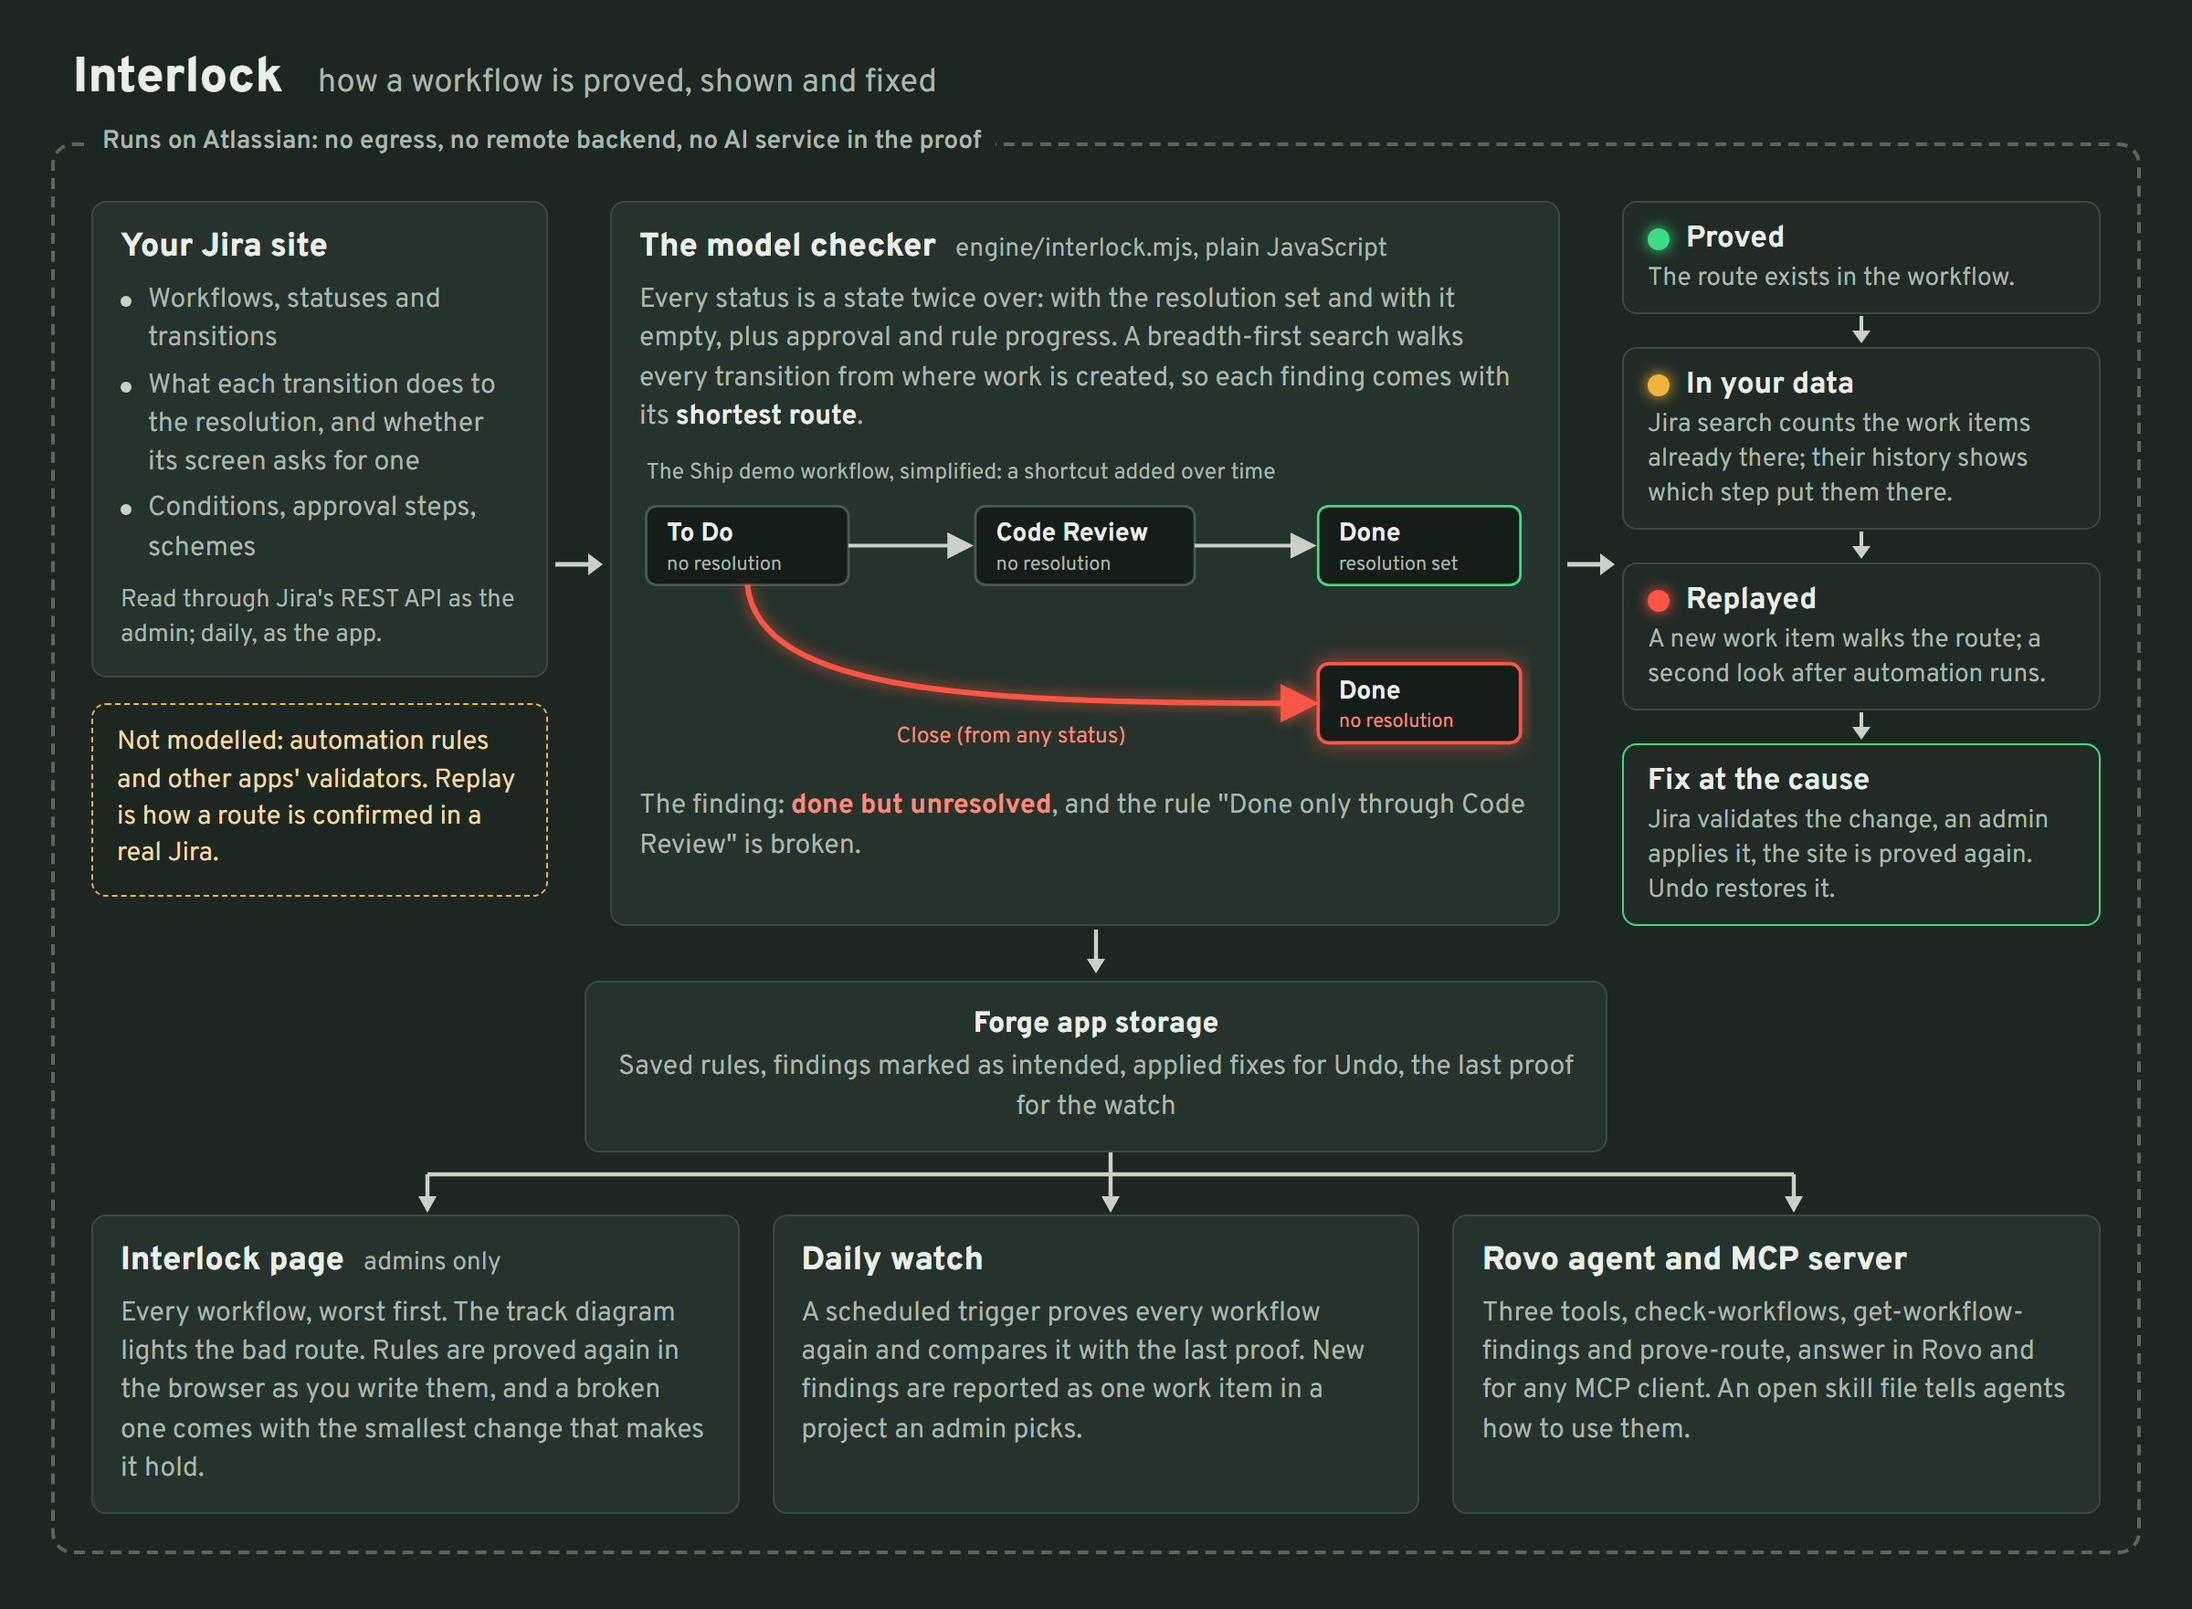
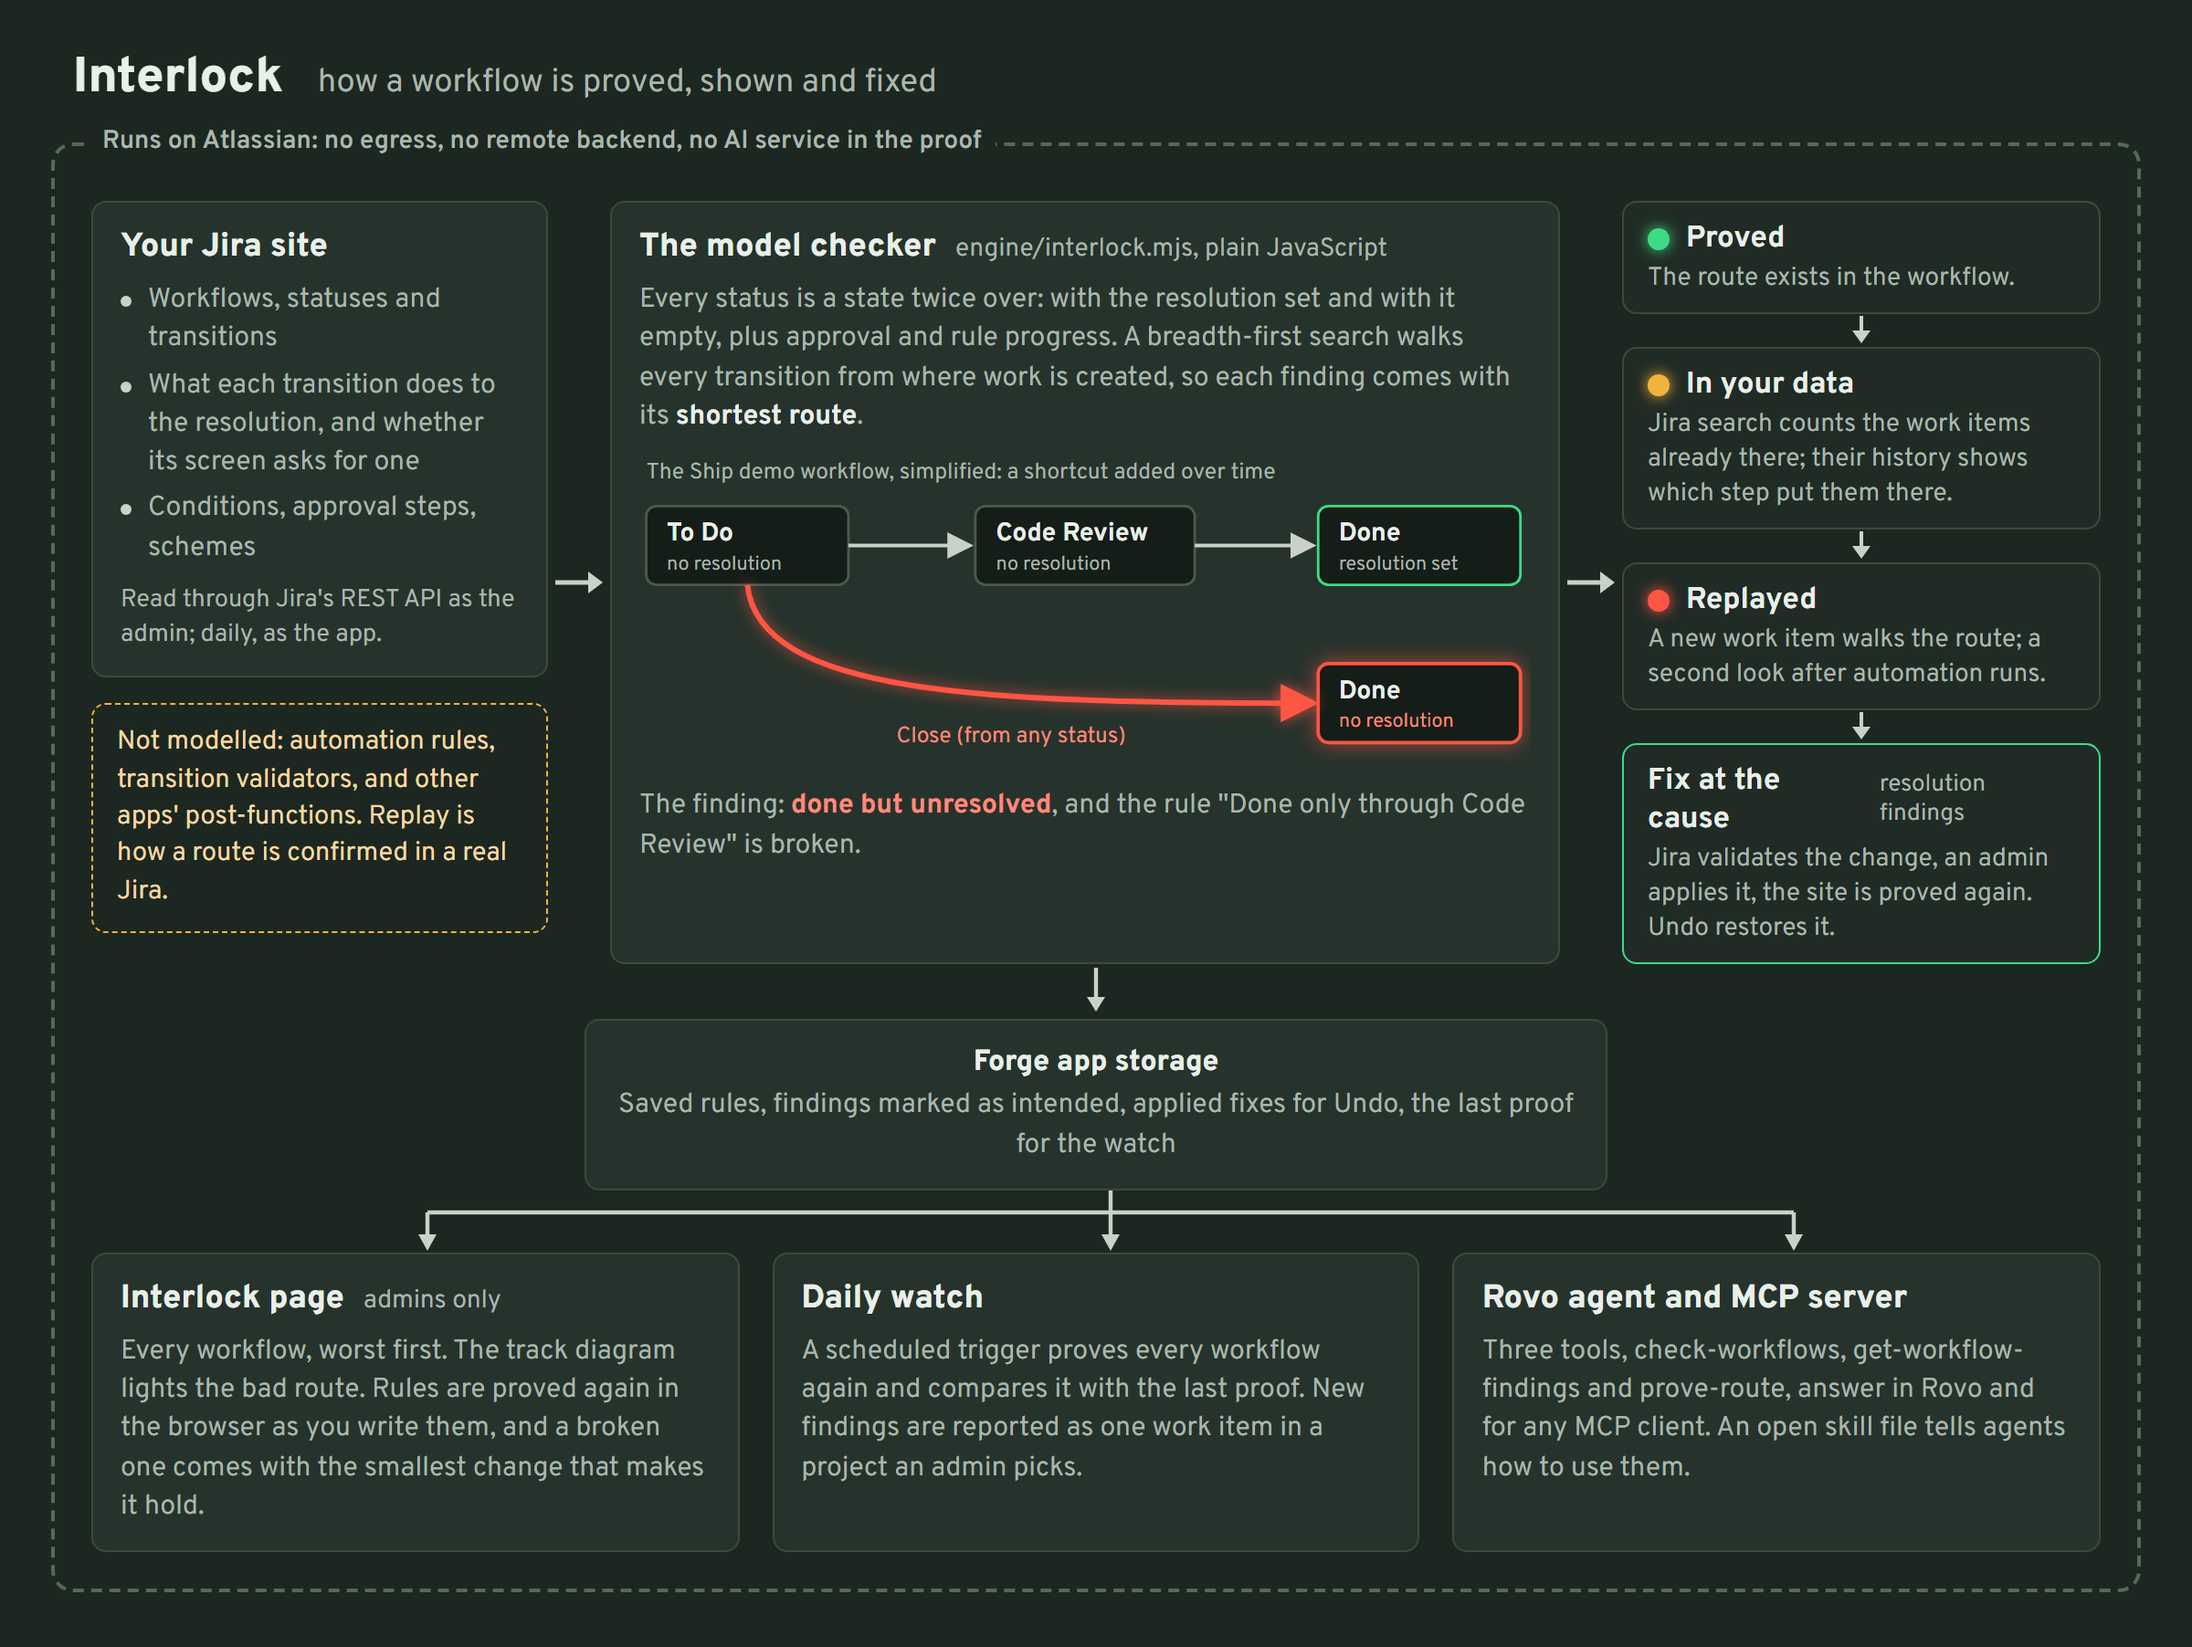
README: Nov 2 numbers first, public Jira as bullets, what the proof leaves out, Undo safeguard; diagram labels

diff --git a/docs/architecture/architecture.html b/docs/architecture/architecture.html
@@ -52,7 +52,7 @@ body { width: 1200px; font-family: Overpass, sans-serif; color: var(--text); pad
       </ul>
       <p style="font-size:13.5px">Read through Jira's REST API as the admin; daily, as the app.</p>
     </div>
-    <div class="not">Not modelled: automation rules and other apps' validators. Replay is how a route is confirmed in a real Jira.</div>
+    <div class="not">Not modelled: automation rules, transition validators, and other apps' post-functions. Replay is how a route is confirmed in a real Jira.</div>
   </div>
   <div class="arrow"><svg width="30" height="20"><path d="M2 10 H24" stroke="#c9d1c9" stroke-width="2.4"/><path d="M20 4 L28 10 L20 16 z" fill="#c9d1c9"/></svg></div>
   <div class="box">
@@ -87,7 +87,7 @@ body { width: 1200px; font-family: Overpass, sans-serif; color: var(--text); pad
     <div class="down"><svg width="16" height="16"><path d="M8 0 V10" stroke="#c9d1c9" stroke-width="2"/><path d="M3 8 L8 15 L13 8 z" fill="#c9d1c9"/></svg></div>
     <div class="rung"><h4><span class="lamp r"></span>Replayed</h4><p>A new work item walks the route; a second look after automation runs.</p></div>
     <div class="down"><svg width="16" height="16"><path d="M8 0 V10" stroke="#c9d1c9" stroke-width="2"/><path d="M3 8 L8 15 L13 8 z" fill="#c9d1c9"/></svg></div>
-    <div class="rung fix"><h4>Fix at the cause</h4><p>Jira validates the change, an admin applies it, the site is proved again. Undo restores it.</p></div>
+    <div class="rung fix"><h4>Fix at the cause <span style="font-weight:400;color:var(--muted);font-size:13px;margin-left:6px">resolution findings</span></h4><p>Jira validates the change, an admin applies it, the site is proved again. Undo restores it.</p></div>
   </div>
 </div>
 

diff --git a/README.md b/README.md
@@ -2,13 +2,13 @@
 
 # Interlock
 
-A Jira workflow is a small program. Teams rely on it for promises such as *"nothing is done without code review"*, *"done work is resolved"* and *"nothing gets stuck"*, and Jira itself never checks those promises. A global transition added for a hotfix, a status copied from another project, or a transition screen without the Resolution field quietly breaks them. Dashboards then count finished work as unresolved, or reopened work as resolved, and release reports are wrong.
+A Jira workflow is a small program. Teams rely on it for promises such as *"nothing is done without code review"*, *"done work is resolved"* and *"nothing gets stuck"*, and Jira itself never checks those promises. A global transition added for a hotfix, a status copied from another project, or a transition screen without the Resolution field quietly breaks them. Dashboards then count finished work as unresolved, or reopened work as resolved, and every filter, gadget and report that runs on the resolution is wrong.
 
 Railway signal boxes solved this a century ago with interlocking: the frame physically prevents a lever combination that would set conflicting routes. Interlock brings the same idea to Jira. Instead of testing a few example work items, it works through every situation a work item can ever be in, meaning each status combined with whether the resolution is set, and checks each promise against all of them. That kind of exhaustive check is called model checking.
 
 It is for Jira administrators and the teams who rely on Jira's numbers: service desks reporting SLAs and change volumes, software teams with review rules, anyone whose release report counts resolved work.
 
-![Interlock: selecting a workflow lights its bad route, and a train runs along it](docs/media/interlock-routes.gif)
+![Interlock lights a bad route in two service-management workflows: a cancelled request left unresolved, and a post-incident review published without approval](docs/media/interlock-routes.gif)
 
 ## What it finds
 
@@ -30,14 +30,21 @@ Each finding comes with the shortest route that breaks the property, from creati
 A proof says what *can* happen. Interlock then takes each finding as far as it can go:
 
 1. **Proved.** The model checker found the route.
-2. **In your data.** For resolution findings, Interlock counts the work items in the projects using that workflow that are already in the bad state, using Jira's own search. On an Atlassian demo site on Nov 1, 2026, before we added anything, 29 of its 97 workflows had routes that go wrong and 78 work items in its sample projects were already in a wrong state. (Today the same site, with our own Ship and TPL projects added, has 104 workflows, 30 with findings and 85 work items wrong.) The count is split by status, so each finding shows its own items, and **How did they get there?** reads the history of up to 50 of them and counts the step that put each one there: on the procurement project, 46 of the 50 most recently changed came Accepted → Purchased with the resolution left as it was, the very step the proof flagged (once that step is fixed, the page says the items already there are left over from before). Items created or imported in that state, and steps with no author (migrations, scripts), are counted apart, not blamed on a route.
+2. **In your data.** For resolution findings, Interlock counts the work items in the projects using that workflow that are already in the bad state, using Jira's own search. On an Atlassian demo site on Nov 2, 2026, 30 of its 104 workflows had routes that go wrong and 85 work items were already in a wrong state. Those counts include our own Ship demo project and one project made from today's service template; as Atlassian provisioned the site on Nov 1, they were 29 of 97 workflows and 78 work items. The count is split by status, so each finding shows its own items, and **How did they get there?** reads the history of up to 50 of them and counts the step that put each one there: on the procurement project, 46 of the 50 most recently changed came Accepted → Purchased with the resolution left as it was, the very step the proof flagged (once that step is fixed, the page says the items already there are left over from before). Items created or imported in that state, and steps with no author (migrations, scripts), are counted apart, not blamed on a route.
 3. **Replayed.** One click creates a new work item and walks it down the route through Jira's transitions API, filling in each transition screen the way a person would. It reads back the status and resolution after every step, and once more a few seconds after the last one, so an automation rule that repairs the resolution shows up and the route is reported safe.
 
-Then **fix at the cause**: for resolution findings, Interlock adds *Set resolution* or *Clear resolution* to the transitions involved. Jira validates the change first, and Interlock saves it only when an admin clicks Apply. The whole site is then proved again. The workflow's card names every project that uses it, because a fix reaches all of them.
+Then **fix at the cause**: for resolution findings, Interlock adds *Set resolution* or *Clear resolution* to the transitions involved. Jira validates the change first, and Interlock saves it only when an admin clicks Apply. The whole site is then proved again. The workflow's card names every project that uses it, because a fix reaches all of them. Undo puts back exactly what was there, and refuses if someone has edited those transitions since.
 
-On that demo site (before we added our own Ship and TPL projects), 13 of the 29 workflows with findings are copies of Jira Service Management template workflows; the Change Management workflow has six copies (five in use) with the same five findings, and one was confirmed on a real work item: a declined change sent back to Review stays resolved as Declined. A project created from the same template today does not have that route, so these copies come from an earlier version of the template or were edited after they were made. Either way, nothing in Jira tells an admin which workflows still carry such routes; Interlock does. The full list is in [Resolution defects in template-made workflows](docs/atlassian-templates.md).
+On that demo site as Atlassian provisioned it, 13 of the 29 workflows with findings are copies of Jira Service Management template workflows; the Change Management workflow has six copies (five in use) with the same five resolution findings (the ENGS copy has a sixth, done without approval), and one was confirmed on a real work item: a declined change sent back to Review stays resolved as Declined. A project created from the same template today does not have that route, so these copies come from an earlier version of the template or were edited after they were made. Either way, nothing in Jira tells an admin which workflows still carry such routes; Interlock does. The full list is in [Resolution defects in template-made workflows](docs/atlassian-templates.md).
 
-**On public Jira sites** the same counts are visible to anyone: 1,844 done-but-unresolved and 1,239 open-but-resolved items on Apache's Jira, 1,092 done-but-unresolved on Atlassian's own public tracker, and zero on OpenJDK's. Their public history shows how they got there: on Apache, 759 of the done-but-unresolved items were moved there by 114 different people on 348 days, through transitions that never set a resolution (MXNET's In Review → Done alone, 204 times). We also say which clusters were one-off bulk or system changes rather than routes. See [Resolution defects on public Jira sites](docs/public-jira.md).
+**On public Jira sites** anyone can count these, and read the history the way **How did they get there?** does:
+
+- **Apache:** 1,844 done but unresolved and 1,239 open but resolved. 759 of the 1,844 were moved there by 114 different people through transitions that never set a resolution (MXNET In Review → Done, 204 times; HUDI Open → Resolved, 155). Nearly all the rest were created or imported already in that state, so no route is to blame for them.
+- **What it does to reports:** in HUDI, an active project, 348 of the 3,401 items its filters call unresolved are finished work (10%). In MXNET, now retired, it was 333 of 1,093 (30%).
+- **OpenJDK:** zero, so it can be done.
+- **Not routes, and we say so:** on Atlassian's public tracker, 1,065 of its 1,092 done-but-unresolved items were one Sourcetree bulk close in 2019; 379 of Lucene's 380 open-but-resolved items changed with no author, after its move to GitHub.
+
+Details and a script to rerun it: [Resolution defects on public Jira sites](docs/public-jira.md).
 
 ## In Jira
 
@@ -58,7 +65,7 @@ On any site without it, **Add the Ship demo project** builds a seeded demo: a de
 
 ![How Interlock proves, shows and fixes a workflow](docs/architecture/architecture.png)
 
-**What the proof covers:** statuses, directed and global transitions, resolution post-functions, transition screens, condition trees (a condition that depends on who is asking counts as passable unless it allows no one) and approval steps. Automation rules and other apps' validators are not in the proof; Replay catches them, because it looks again after automation has run, and an admin can mark any route as intended.
+**What the proof covers:** statuses, directed and global transitions, resolution post-functions, transition screens, condition trees (a condition that depends on who is asking counts as passable unless it allows no one) and approval steps. Automation rules, transition validators (Jira's own and other apps') and other apps' post-functions (ScriptRunner, JMWE and the like) are not in the proof, so a route another app already repairs can still show as a finding. Replay settles it, because it walks the route through Jira and looks again after automation has run, and an admin can mark any route as intended.
 
 
 - `engine/interlock.mjs` builds a model from `GET /rest/api/3/workflows/search` with transitions expanded:
@@ -110,7 +117,7 @@ forge deploy
 forge install
 ```
 
-`npm run dev` in `static/panel` runs the page in a plain browser against `static/panel/dev/site.json`, a saved copy of a site's workflow search response (not in this repository: save your own). Such a copy has no transition screens, so it shows more findings (81 of 97) than the live site (29), where screens that ask for a resolution clear many of them.
+`npm run dev` in `static/panel` runs the page in a plain browser against `static/panel/dev/site.json`, a saved copy of a site's workflow search response (not in this repository: save your own). Such a copy has no transition screens, so it shows more findings (81 of 97) than the live site did on the same day (29, Nov 1 snapshot), where screens that ask for a resolution clear many of them.
 
 ## Layout
 
